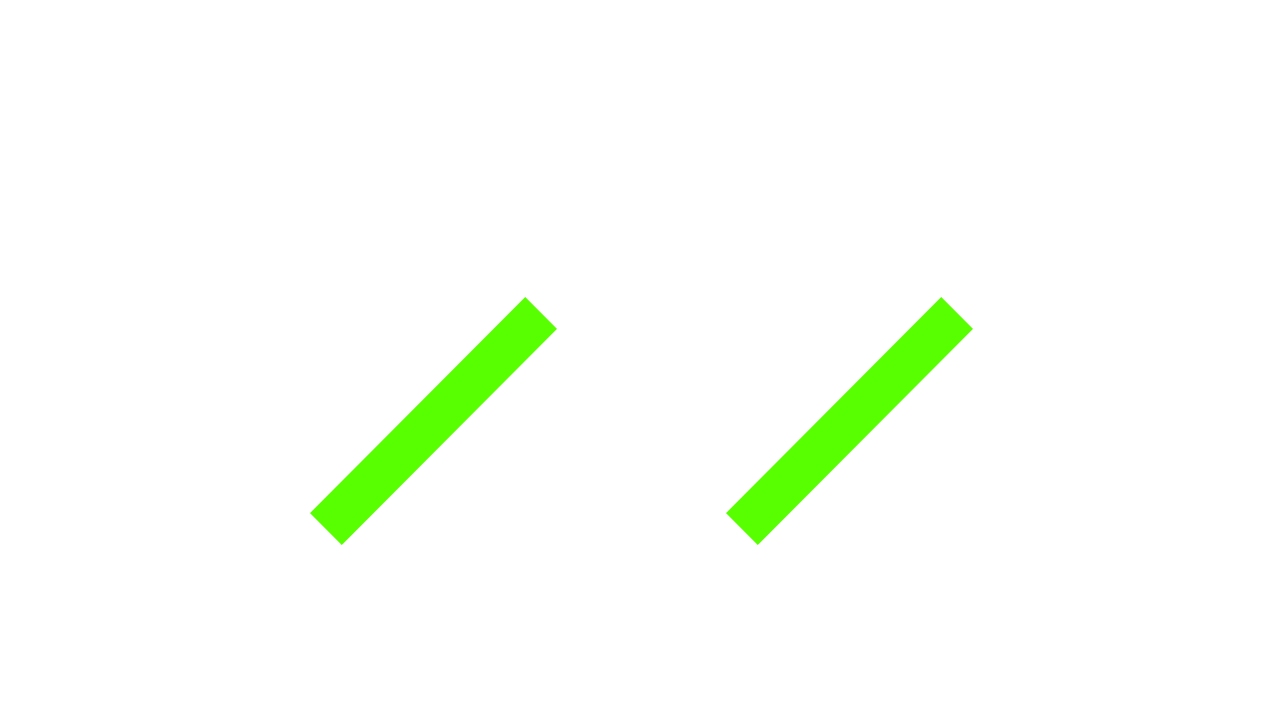
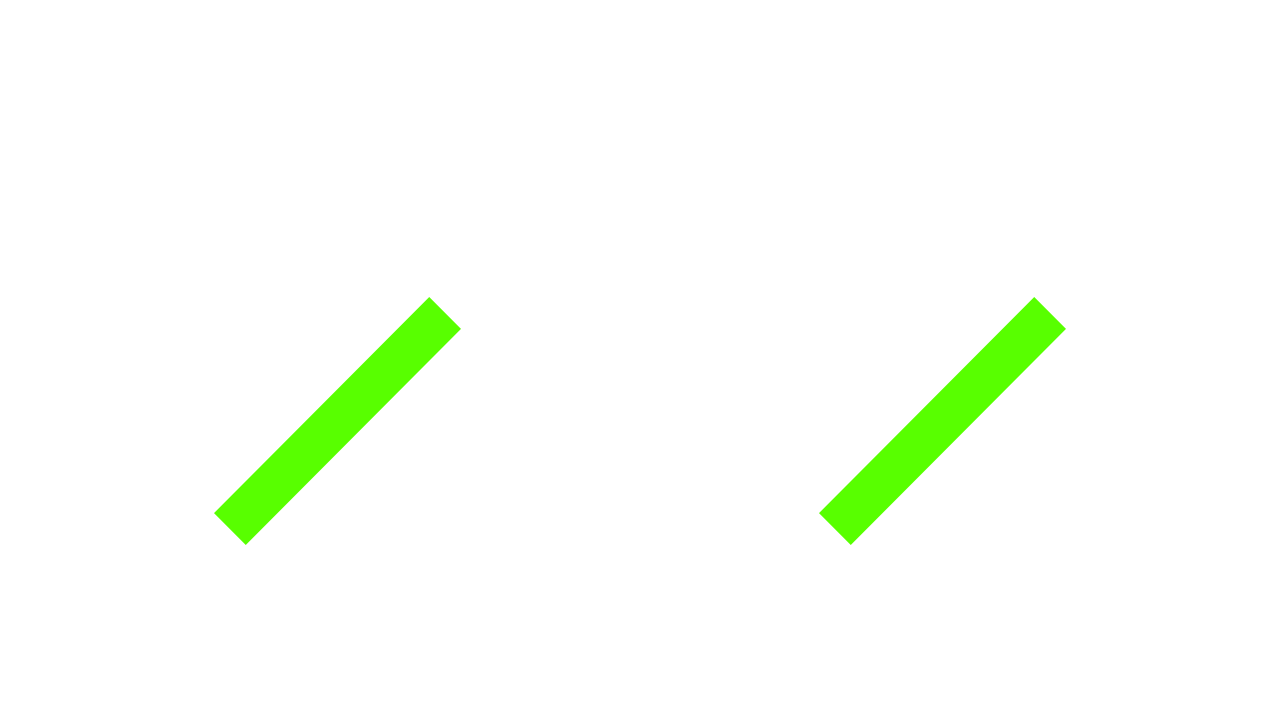
Animação

Changed region(s): [[0.5625, 0.3972, 0.8438, 0.7639], [0.1562, 0.3972, 0.4375, 0.7639]]

diff --git a/Código/Projeto/teste.c b/Código/Projeto/teste.c
@@ -69,8 +69,8 @@ bool Iniciar_Jogo_Vermelho = false;
 bool limitado = true;
 
 int tecla = 0;
-int top = 0;
-int down = 0;
+int top = 1;
+int down = 2;
 int frame = 0;
 int i = 0;
 
@@ -86,10 +86,11 @@ double obterTempoTimer();
 =======================*/
 int main(void)
 {
-    float x = 0;
+    float x = 585;
     float y = -100;
+    float raio = 50.0;
     int dir_x = 0;
-    int dir_y = 0;
+    int dir_y = 1;
 
     inicicializar_comandos();
     inicicializar_imagens();
@@ -458,53 +459,85 @@ int main(void)
             }
         }
 
-        /*=================
+            /*=================
             === Tela Fase 1 ===
             ===================*/
             if(tecla == 2)
             {
                 al_clear_to_color(al_map_rgb(255, 255, 255));
-
-                if(top == 0)
-                {
-                    al_draw_bitmap(imagem_Plataforma_top_down, 0, 0, 0);
-                }
-                else if(top == 1)
-                {
-                    al_draw_bitmap(imagem_Plataforma_top_left, 0, 0, 0);
-                }
-                else if(top == 2)
-                {
-                    al_draw_bitmap(imagem_Plataforma_top_right, 0, 0, 0);
-                }
-                if(down == 0)
-                {
-                    al_draw_bitmap(imagem_Plataforma_down_down, 0, 0, 0);
-                }
-                else if(down == 1)
-                {
-                    al_draw_bitmap(imagem_Plataforma_down_left, 0, 0, 0);
-                }
-                else if(down == 2)
-                {
-                    al_draw_bitmap(imagem_Plataforma_down_right, 0, 0, 0);
-                }
+                al_draw_bitmap(imagem_Plataforma_down_down, 0, 0, 0);
+                al_draw_bitmap(imagem_Plataforma_top_down, 0, 0, 0);
 
                 al_draw_bitmap(imagem_Fruta_Manga, x, y, 0);
                 al_flip_display();
                 y += 1.0 * dir_y;
+                x += 1.0 * dir_x;
 
-                if (y >= ALTURA_TELA - 50)
+                if(x >= 487 - 2 * raio && x <= 793 + 2 * raio)
                 {
-                    dir_y = -1;
-                    y = ALTURA_TELA - 50;
-                } else if (y <= 50) {
-                    dir_y = 1;
-                    y = 50;
+                    if (y >= 150 - raio)
+                    {
+                        if(top == 1)
+                        {
+                            dir_y = 0;
+                            dir_x = -1;
+                        }
+                        else if(top == 2)
+                        {
+                            dir_y = 0;
+                            dir_x = 1;
+                        }
+                    }
                 }
-
+                else if (x >= 793 - 2 * raio && x <= 1000 + 2 * raio)
+                {
+                    if(y >= 140 - raio && y < 398 - raio)
+                    {
+                        dir_y = 1;
+                        dir_x = 0;
+                    }
+                    else if(y == 398 - raio)
+                    {
+                        dir_y = 0;
+                        if (down == 1)
+                        {
+                            dir_x = -1;
+                        }
+                        else if (down == 2)
+                        {
+                            dir_x = 1;
+                        }
+                    }
+                }
+                else if(x >= 280 - 2 * raio && x <= 487 - 2 * raio)
+                {
+                    if(y >= 140 - raio && y < 398 - raio)
+                    {
+                        dir_y = 1;
+                        dir_x = 0;
+                    }
+                    else if(y == 398 - raio)
+                    {
+                        if (down == 1)
+                        {
+                            dir_y = 0;
+                            dir_x = -1;
+                        }
+                        else if (down == 2)
+                        {
+                            dir_y = 0;
+                            dir_x = 1;
+                        }
+                    }
+                }
+                else if (x < 280 - 2 * raio || x > 487 - 2 * raio)
+                {
+                    dir_y = 1;
+                    dir_x = 0;
+                }
             }
 
+        al_rest(5/100000);
         frame++;
 
         if (limitado && (obterTempoTimer() < 1.0 / FRAMES_POR_SEGUNDO))
